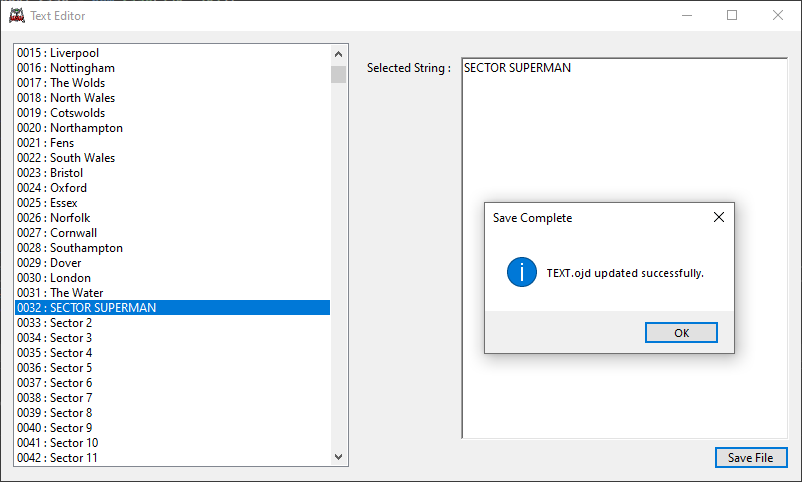
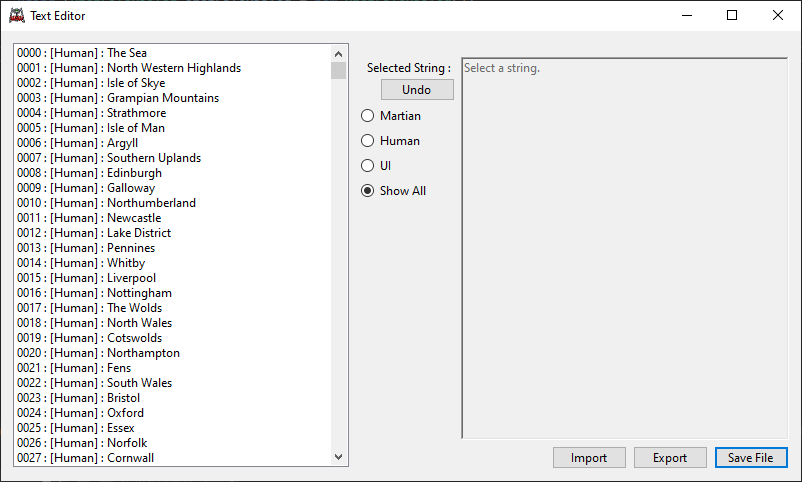
Import Export & Undo Functionality

diff --git a/WoWViewer/TextEditorForm.cs b/WoWViewer/TextEditorForm.cs
@@ -1,4 +1,5 @@
 using System.Text;
+using System.Windows.Forms;
 using WOWViewer;
 
 namespace WoWViewer
@@ -8,6 +9,7 @@ namespace WoWViewer
         private List<WowTextEntry> entries = new List<WowTextEntry>();
         private static readonly Encoding Latin1 = Encoding.GetEncoding("iso-8859-1");
         private static string inputPath = "TEXT.ojd";
+        private static string temporaryString = string.Empty;
         public TextEditorForm()
         {
             InitializeComponent();
@@ -18,6 +20,9 @@ namespace WoWViewer
         // for parsing the TEXT.ojd file into the listBox for the TextEditorForm
         public void parseTEXTOJD()
         {
+            listBox1.BeginUpdate(); // begin clear for reparsing
+            listBox1.Items.Clear();
+            entries.Clear();
             byte[] data = File.ReadAllBytes(inputPath); // read the file into a byte array
             int offset = 0x289; // first string starts at 0x289
             for (int i = 0; i < 1396; i++) // there are only 1396 entries
@@ -28,15 +33,17 @@ namespace WoWViewer
                 string text = Latin1.GetString(data, stringOffset, length - 1).Replace("\\n", "\n");
                 // string length is one less than the ushort length as length contains the null operator // replaces \n with actual new line
                 listBox1.Items.Add($"{i:D4} : [{getFaction(category)}] : {text}");
-                entries.Add(new WowTextEntry { Name = text, Length = length, Offset = offset, Faction = category, Index = (ushort)i});
+                entries.Add(new WowTextEntry { Name = text, Length = length, Offset = offset, Faction = category, Index = (ushort)i });
                 offset += (int)length + 9; // move offset to next entry // not + 10 because length contains the null operator ( hence - 1 above at text )
             }
+            listBox1.EndUpdate(); // end clear for reparsing
         }
         // list box selected index changed event
         private void listBox1_SelectedIndexChanged(object sender, EventArgs e)
         {
             richTextBox1.Enabled = true; // enable the richTextBox
             richTextBox1.Text = entries[getRealIndex()].Name; // update the richTextBox with the selected entry
+            temporaryString = richTextBox1.Text;
         }
         // faction type or user interface
         private static string getFaction(byte category) => category == 0x00 ? "Martian" : category == 0x01 ? "Human" : category == 0x02 ? "UI" : "Unknown";
@@ -99,6 +106,76 @@ namespace WoWViewer
                 }
             }
             listBox1.EndUpdate();
+        }
+        // export to text file
+        private void button2_Click(object sender, EventArgs e)
+        {
+            byte[] data = File.ReadAllBytes(inputPath);
+            //string outputPath = "TEXT.OJD.txt";
+            using (StreamWriter log = new StreamWriter("TEXT.OJD.txt", false, Latin1))
+            {
+                int offset = 0x289; // first string starts at 0x289
+                //int count = 0; // count checker for total number of entries
+                for (int i = 0; i < 1396; i++) // there are only 1396 entries
+                {
+                    byte category = data[offset + 4];  // Faction: 00 = Martian, 01 = Human, 02 = UI
+                    ushort length = (ushort)(data[offset + 8] | (data[offset + 9] << 8)); // bytes 9 and 10 are the string length
+                    int stringOffset = offset + 10; // string offset
+                    string text = Latin1.GetString(data, stringOffset, length - 1).Replace("\n", "").Replace("\r\n", "\\n"); // string length is one less than the byte length
+                    log.WriteLine($"{i:D4} [{getFaction(category)}] : {text}");
+                    offset += length + 9; // move offset to next entry // not + 10 because length contains the null operator ( hence - 1 above at text )
+                }
+            }
+            MessageBox.Show("TEXT.OJD.TXT file saved in the game directory.");
+        }
+        // import strings from a text file
+        private void button3_Click(object sender, EventArgs e)
+        {
+            string filePath;
+            using (OpenFileDialog openFileDialog = new OpenFileDialog())
+            {
+                openFileDialog.InitialDirectory = Directory.GetCurrentDirectory();
+                openFileDialog.Filter = "Text Files (*.txt)|*.txt";
+                openFileDialog.FilterIndex = 1;
+                openFileDialog.RestoreDirectory = true;
+                openFileDialog.Title = "Import TEXT.OJD.TXT file";
+                if (openFileDialog.ShowDialog() != DialogResult.OK) { return; }
+                else { filePath = openFileDialog.FileName; }
+            }
+            var lines = File.ReadLines(filePath);
+            int count = 0;
+            foreach (var line in lines)
+            {
+                listBox1.BeginUpdate();
+                listBox1.Items.Clear();
+                string name = string.Join(" ", line.Split(' ').Skip(3));
+                entries[count].Length = name.Length;
+                entries[count].Name = name;
+                listBox1.EndUpdate();
+                count++;
+            }
+            if (count < 1396)
+            {
+                MessageBox.Show("Error importing TEXT.OJD.TXT file, please check the file and try again.", "Import Error", MessageBoxButtons.OK, MessageBoxIcon.Error);
+                parseTEXTOJD(); // reparse original TEXT.ojd file
+                return;
+            }
+            // re-sort the listBox incase a filter is ticked already and repopulate the list
+            if (radioButton1.Checked) { filterByFaction(0x00); }
+            else if (radioButton2.Checked) { filterByFaction(0x01); }
+            else if (radioButton3.Checked) { filterByFaction(0x02); }
+            else if (radioButton4.Checked) { filterByFaction(0x03); }
+            MessageBox.Show("Text file imported, now just hit save!", "Import", MessageBoxButtons.OK, MessageBoxIcon.Information);
+        }
+        // undo changes to selected string
+        private void button4_Click(object sender, EventArgs e)
+        {
+            if (temporaryString != richTextBox1.Text)
+            {
+                richTextBox1.Text = temporaryString;
+                return;
+            }
+            MessageBox.Show("No changes to undo.", "Undo", MessageBoxButtons.OK, MessageBoxIcon.Information);
         }
     }
 }

diff --git a/WoWViewer/TextEditorForm.Designer.cs b/WoWViewer/TextEditorForm.Designer.cs
@@ -37,6 +37,9 @@
             radioButton2 = new RadioButton();
             radioButton3 = new RadioButton();
             radioButton4 = new RadioButton();
+            button2 = new Button();
+            button3 = new Button();
+            button4 = new Button();
             SuspendLayout();
             // 
             // button1
@@ -132,11 +135,47 @@
             radioButton4.UseVisualStyleBackColor = true;
             radioButton4.CheckedChanged += radioButton4_CheckedChanged;
             // 
+            // button2
+            // 
+            button2.AccessibleDescription = "Exports the strings to a text file.";
+            button2.Location = new Point(632, 415);
+            button2.Name = "button2";
+            button2.Size = new Size(75, 23);
+            button2.TabIndex = 9;
+            button2.Text = "Export";
+            button2.UseVisualStyleBackColor = true;
+            button2.Click += button2_Click;
+            // 
+            // button3
+            // 
+            button3.AccessibleDescription = "Import the strings from a text file.";
+            button3.Location = new Point(551, 415);
+            button3.Name = "button3";
+            button3.Size = new Size(75, 23);
+            button3.TabIndex = 10;
+            button3.Text = "Import";
+            button3.UseVisualStyleBackColor = true;
+            button3.Click += button3_Click;
+            // 
+            // button4
+            // 
+            button4.AccessibleDescription = "Undo changes to the selected string.";
+            button4.Location = new Point(379, 47);
+            button4.Name = "button4";
+            button4.Size = new Size(75, 23);
+            button4.TabIndex = 11;
+            button4.Text = "Undo";
+            button4.UseVisualStyleBackColor = true;
+            button4.Click += button4_Click;
+            // 
             // TextEditorForm
             // 
             AutoScaleDimensions = new SizeF(7F, 15F);
             AutoScaleMode = AutoScaleMode.Font;
             ClientSize = new Size(800, 450);
+            Controls.Add(button4);
+            Controls.Add(button3);
+            Controls.Add(button2);
             Controls.Add(radioButton4);
             Controls.Add(radioButton3);
             Controls.Add(radioButton2);
@@ -146,7 +185,7 @@
             Controls.Add(listBox1);
             Controls.Add(button1);
             Icon = (Icon)resources.GetObject("$this.Icon");
-            Name = "TextEditorForm";
+            Name = "Text Editor";
             Text = "Text Editor";
             ResumeLayout(false);
             PerformLayout();
@@ -162,5 +201,8 @@
         private RadioButton radioButton2;
         private RadioButton radioButton3;
         private RadioButton radioButton4;
+        private Button button2;
+        private Button button3;
+        private Button button4;
     }
 }
